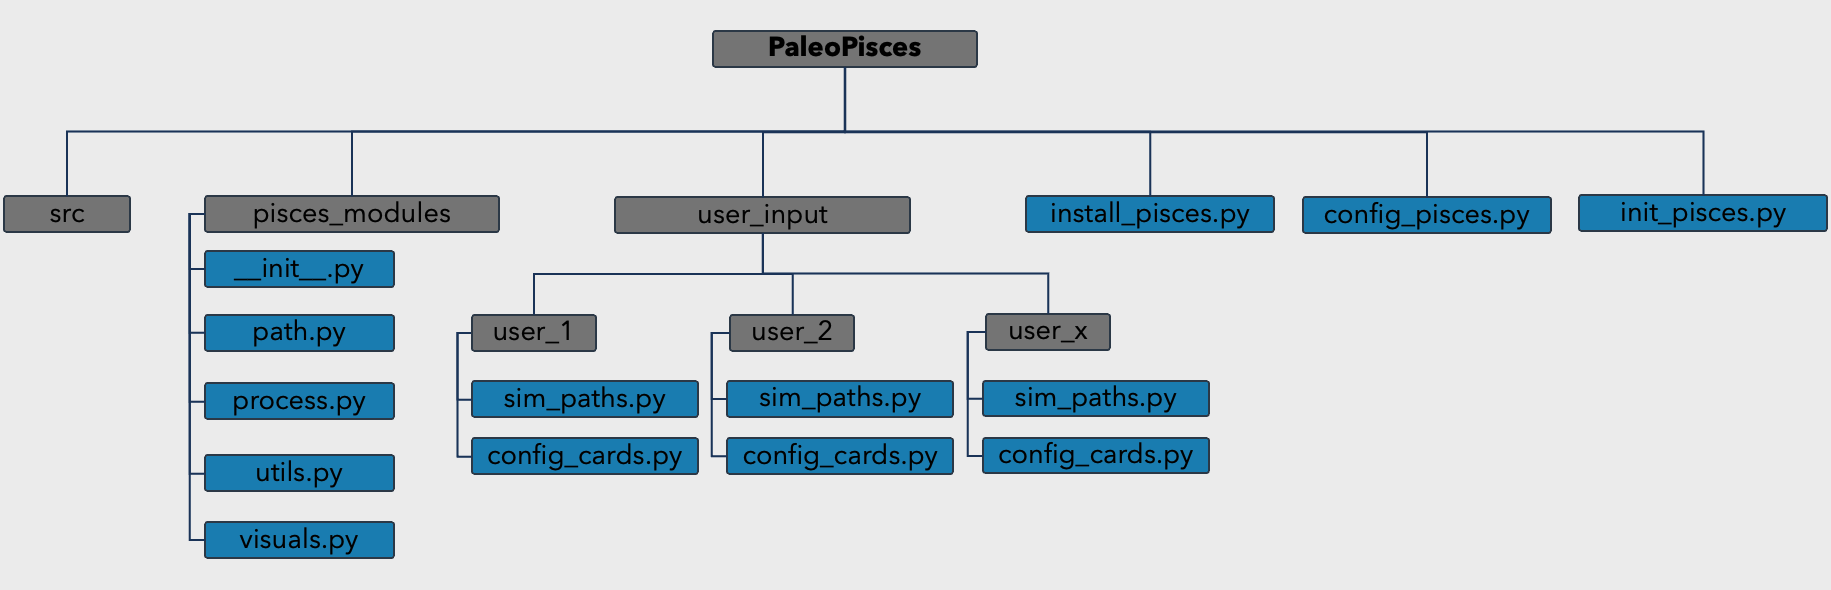
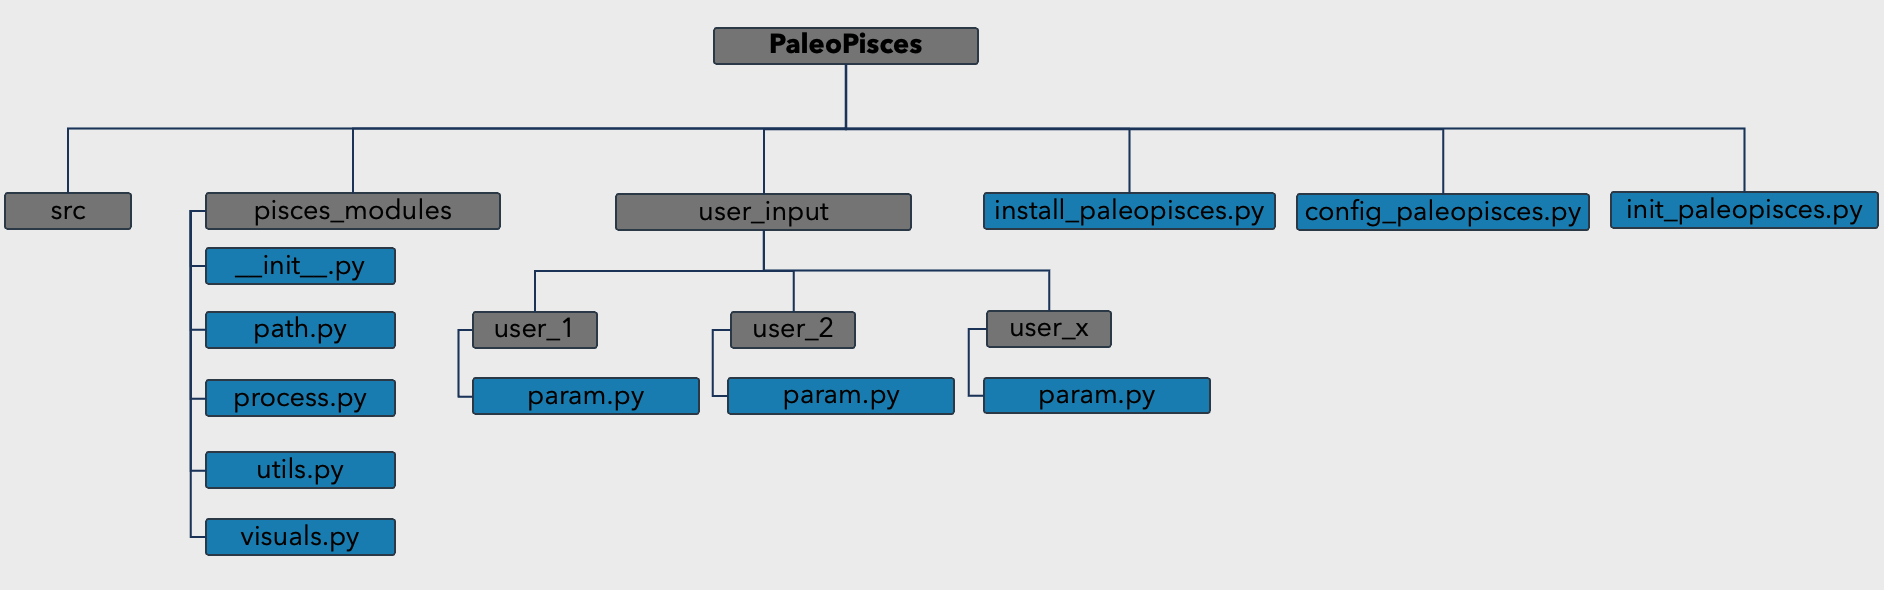
update doc install paleopisces

Changed region(s): [[0.0311, 0.0305, 1.0, 0.8237], [0.0, 0.3051, 0.2802, 0.9458]]

diff --git a/_documentation-model/Install_PALEO_PISCES_off.md b/_documentation-model/Install_PALEO_PISCES_off.md
@@ -13,7 +13,9 @@ This program aims to automate all the steps necessary to install and configure P
 
 The folder structure is as following: 
 
-![Folder Structure](/assets/images/Folder_paleo_pisces.png)
+<p align="center">
+    <img src="/assets/images/folder_paleo_pisces.png"  width="800">
+<p>
 
 ## Preliminary steps
 
@@ -35,45 +37,47 @@ Load environment
 
 Install the model:
 ```
-python3 install_paleo_pisces.py
+python3 install_paleopisces.py
 ```
 You will be required to enter the folder name where you want to install Paleo Pisces (this folder shouldn't already exist).
 
+When launching for the first time this script, a `param.py` file will be created in `/ccc/work/cont003/gen2212/gen2212/PaleoPisces/user_input/[IRENE_USERNAME]`
 
-This script will create 2 python files `sim_path.py` and `config_card.py` and put them in a folder located in `/ccc/work/cont003/gen2212/gen2212/PaleoPisces/user_input/[IRENE_USERNAME]`.
+<p align="center">
+    <img src="/assets/images/param_paleo_pisces.png"  width="400">
+<p>
 
+<div class="alert alert-info">
+<em>Note: This <code>param.py</code> file will request for element (folder/file/job name) to install and set up Paleo Pisces.
+
+As long as one of these element entered in the <code>param.py</code> file doesn't match the conditions (either folder doesn't exist whereas it should for example), python script will request user to enter another value through a prompt to fix the issue.
+
+If the new value fit the conditions it will be automatically updated in the <code>param.py</code> file at the concerned variable.</em>
+</div>
 
 ## Configure Paleo Pisces
 
-Before running the next script you will have to edit the `sim_path.py` file which will contain path to the coupled simulation outputs.
+Before running the configure script you will have to edit the variables in `Folder names` and `Boundary condition files` section in `param.py` file.
 
-![Sim path](/assets/images/sim_path.png)
+Those variables will contain path to the coupled simulation outputs.
 
 Then the next python script can be run:
 ```
-python3 configure_paleo_pisces.py
+python3 config_paleopisces.py
 ```
-You will be required to enter the folder name where Paleo Pisces has been installed and the folder name where you want to set up the boundary conditions (this folder shouldn't already exist).
-
 
 ## Initialize Paleo Pisces
 
-Before running the last script, you will need to edit the `config_card.py` python file which will contain settings for the `config.card` file:
-```
-vim /ccc/work/cont003/gen2212/gen2212/PaleoPisces/user_input/[YourUsername]/config_card.py
-```
-![Config card](/assets/images/config_card.png)
+Before running the initialize script you will have to edit the variables in `Parameters for config.card` section in `param.py` file.
 
 Finally you can run the last python script:
 ```
-python3 initialize_paleo_pisces.py
+python3 init_paleopisces.py
 ```
-You will be required to enter the folder name where Paleo Pisces has been installed and the folder name where the boundary conditions have been set up. Then you will have to choose the job specifications (project ID, type of node, number of cores and wall time).
-
 
 ## Run a simulation
 
-If you wnat to run a simulation, you need to change your directory to:
+If you want to run a simulation, you need to change your directory:
 
 ```
 cd ccc/work/cont003/gen2212/[IRENE_User_Name]/[path_to_PALEOPISCES]/modipsl/config/NEMO_v6/[JOB_NAME]
